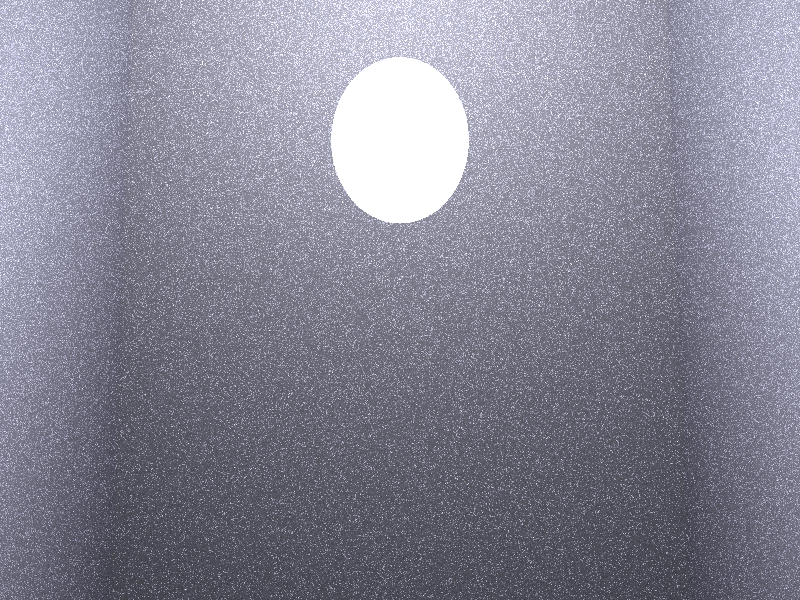
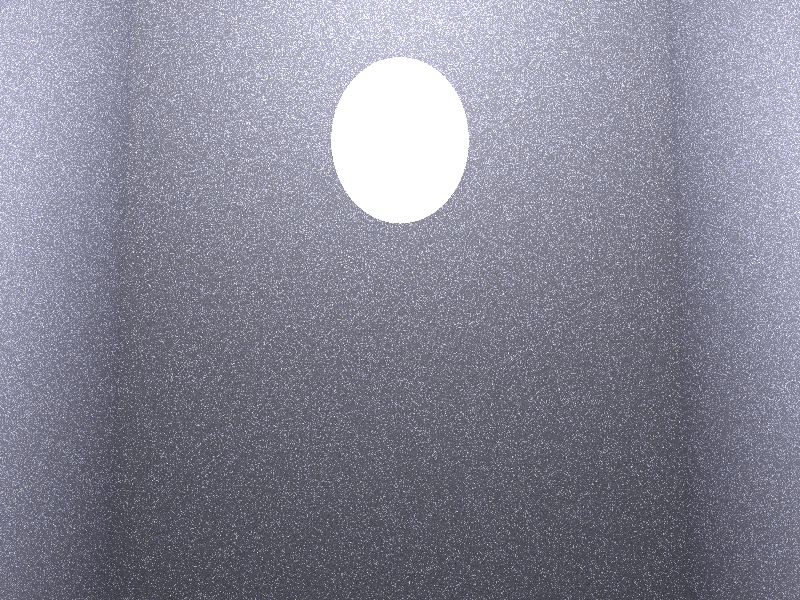
Verify build + refresh 800x600 screenshots (all 4 scenes, PNG headers valid)

diff --git a/PROGRESS.md b/PROGRESS.md
@@ -84,3 +84,11 @@
   tracked, PPMs stay on local disk for `convert` regeneration.
 - Verified: `make clean && make` warning-free, 200×150/4spp cornell test
   avg ~81/255 (not black), 2.0 Mrays/s, keep 0.2%.
+
+## 2026-09-21 — Verify + refresh screenshots (800×600, 16 spp, train 1500)
+- `make clean && make` warning-free; smoke test 200×150/4spp/train200:
+  avg 90.9/82.1/68.4 (not black), 3.10 Mrays/s, keep 0.8%.
+- Re-rendered all 4 scenes with current binary: cornell 21.4s/2.64 Mrays/s/
+  keep 0.1% (3051 alive), bedroom 21.4s/2.63, dining 27.2s/1.93,
+  staircase 20.9s/2.61; `convert`ed PPM→PNG, all PNG headers valid.
+- Matches README results table; no code changes needed.
